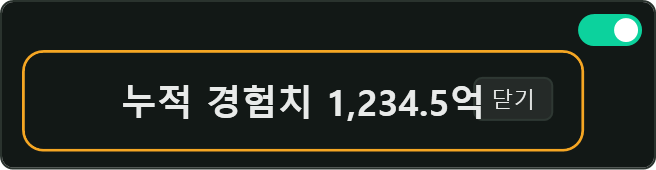
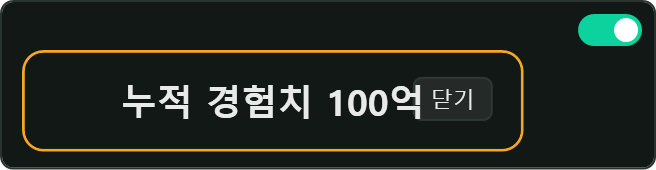
docs: 도움말 예시를 실제 게임 캐릭터·상황 문구로 전면 교체 후 재생성

diff --git a/Services/Diagnostics/HelpShotRenderer.cs b/Services/Diagnostics/HelpShotRenderer.cs
@@ -56,65 +56,66 @@ namespace TWChatOverlay.Services
 
             // ── 에타 레벨 ──
             Save(outDir, "chat_id_eta_level_off.png", PanelToggle(false,
-                Line(NormalCol, ("모비딕", NormalCol), (" : 사냥 가실 분?", NormalCol))));
+                Line(NormalCol, ("아나이스", NormalCol), (" : 어비스 가실 분?", NormalCol))));
             Save(outDir, "chat_id_eta_level_on.png", PanelToggle(true,
-                Line(NormalCol, ("모비딕", NormalCol), ("[72]", GoldCol), (" : 사냥 가실 분?", NormalCol))));
+                Line(NormalCol, ("아나이스", NormalCol), ("[72]", GoldCol), (" : 어비스 가실 분?", NormalCol))));
 
             // ── 에타 레벨별 색상 ──
             Save(outDir, "chat_id_eta_range_off.png", PanelToggle(false,
-                Line(NormalCol, ("나비", NormalCol), ("[15]", GoldCol), (" : 반가워요", NormalCol)),
-                Line(NormalCol, ("딩고", NormalCol), ("[55]", GoldCol), (" : 사냥 가실 분?", NormalCol)),
-                Line(NormalCol, ("모비딕", NormalCol), ("[92]", GoldCol), (" : 보스 곧 엽니다", NormalCol))));
+                Line(NormalCol, ("보리스", NormalCol), ("[15]", GoldCol), (" : 반가워요", NormalCol)),
+                Line(NormalCol, ("벤야", NormalCol), ("[55]", GoldCol), (" : 어비스 가실 분?", NormalCol)),
+                Line(NormalCol, ("아나이스", NormalCol), ("[92]", GoldCol), (" : 클럽보스 5초후 잡아요", NormalCol))));
             Save(outDir, "chat_id_eta_range_on.png", PanelToggle(true,
-                Line(NormalCol, ("나비", NormalCol), ("[15]", Range1Col), (" : 반가워요", NormalCol)),
-                Line(NormalCol, ("호밀", NormalCol), ("[33]", Range2Col), (" : 물약 팝니다", NormalCol)),
-                Line(NormalCol, ("딩고", NormalCol), ("[55]", Range3Col), (" : 사냥 가실 분?", NormalCol)),
-                Line(NormalCol, ("루카", NormalCol), ("[71]", Range4Col), (" : 집결지로 와주세요", NormalCol)),
-                Line(NormalCol, ("모비딕", NormalCol), ("[92]", Range5Col), (" : 보스 곧 엽니다", NormalCol))));
+                Line(NormalCol, ("보리스", NormalCol), ("[15]", Range1Col), (" : ㅎㅇ", NormalCol)),
+                Line(NormalCol, ("루시안", NormalCol), ("[33]", Range2Col), (" : 에오니스 라피스 팝니다", NormalCol)),
+                Line(NormalCol, ("벤야", NormalCol), ("[55]", Range3Col), (" : 어비스 가실 분?", NormalCol)),
+                Line(NormalCol, ("로아미니", NormalCol), ("[71]", Range4Col), (" : 상실의 섬으로 와주세요", NormalCol)),
+                Line(NormalCol, ("아나이스", NormalCol), ("[92]", Range5Col), (" : 클럽 보스 5초후 잡아요", NormalCol))));
 
             // ── 캐릭터 ──
             Save(outDir, "chat_id_character_off.png", PanelToggle(false,
-                Line(NormalCol, ("모비딕", NormalCol), ("[72]", GoldCol), (" : 사냥 가실 분?", NormalCol))));
+                Line(NormalCol, ("비호", NormalCol), ("[72]", GoldCol), (" : 어비스 가실 분?", NormalCol))));
             Save(outDir, "chat_id_character_on.png", PanelToggle(true,
-                Line(NormalCol, ("모비딕", NormalCol), ("[72]", GoldCol), ("[루시안]", SkyCol), (" : 사냥 가실 분?", NormalCol))));
+                Line(NormalCol, ("비호", NormalCol), ("[72]", GoldCol), ("[아나이스]", SkyCol), (" : 어비스 가실 분?", NormalCol))));
 
             // ── 아이디 태그 ──
             Save(outDir, "chat_id_tag_off.png", PanelToggle(false,
-                Line(NormalCol, ("모비딕", NormalCol), (" : 물약 팝니다", NormalCol))));
+                Line(NormalCol, ("아나이스", NormalCol), (" : 에오니스 라피스 팝니다", NormalCol))));
             Save(outDir, "chat_id_tag_on.png", PanelToggle(true,
-                Line(NormalCol, ("모비딕", NormalCol), ("[상인]", SkyCol), (" : 물약 팝니다", NormalCol)),
-                DimLine("(idtag.txt: 모비딕=상인)")));
+                Line(NormalCol, ("아나이스", NormalCol), ("[혐사]", SkyCol), (" : 에오니스 라피스 팝니다", NormalCol)),
+                DimLine("(idtag.txt: 아나이스 = 혐사)")));
 
             // ── 클럽 보스 ──
             Save(outDir, "chat_id_club_boss_on.png", PanelToggle(true,
-                Line(ClubCol, ("[클럽] 딩고 : 보스 갑니다", ClubCol)),
-                Line(SystemCol, ("클럽 공지 : '[클럽 보스] 그람존' 에 '딩고' 님이 참가하셨습니다.", SystemCol))));
+                Line(ClubCol, ("[클럽] 벤야 : 클럽 보스 갑니다", ClubCol)),
+                Line(SystemCol, ("클럽 공지 : '[클럽 보스] 그람존' 에 '벤야' 님이 참가하셨습니다.", SystemCol))));
             Save(outDir, "chat_id_club_boss_off.png", PanelToggle(false,
-                Line(ClubCol, ("[클럽] 딩고 : 보스 갑니다", ClubCol)),
+                Line(ClubCol, ("[클럽] 벤야 : 클럽 보스 갑니다", ClubCol)),
                 DimLine("(클럽 보스 공지는 표시되지 않음)")));
 
             // ── 타임 스탬프 ──
             Save(outDir, "chat_id_timestamp_off.png", PanelToggle(false,
-                Line(NormalCol, ("모비딕 : 안녕하세요", NormalCol))));
+                Line(NormalCol, ("아나이스 : 안녕하세요", NormalCol))));
             Save(outDir, "chat_id_timestamp_on.png", PanelToggle(true,
-                Line(NormalCol, ("[7시 15분 18초] ", SubText), ("모비딕 : 안녕하세요", NormalCol))));
+                Line(NormalCol, ("[7시 15분 18초] ", SubText), ("아나이스 : 안녕하세요", NormalCol))));
 
             // ── 폰트 크기 ──
             Save(outDir, "chat_font_13.png", Panel("크기 13",
-                LineSized(13, ("모비딕 : 폰트 크기를 바꿀 수 있습니다", NormalCol))));
+                LineSized(13, ("아나이스 : 폰트 크기를 바꿀 수 있습니다", NormalCol))));
             Save(outDir, "chat_font_17.png", Panel("크기 17",
-                LineSized(17, ("모비딕 : 폰트 크기를 바꿀 수 있습니다", NormalCol))));
+                LineSized(17, ("아나이스 : 폰트 크기를 바꿀 수 있습니다", NormalCol))));
 
             // ── 종류 말머리 ──
+
             Save(outDir, "chat_category_prefix_off.png", PanelToggle(false,
-                Line(NormalCol, ("모비딕 : 사냥 가실 분?", NormalCol)),
-                Line(TeamCol, ("나비 : 집결지로 와주세요", TeamCol)),
-                Line(ClubCol, ("딩고 : 보스 곧 엽니다", ClubCol)),
-                Line(ShoutCol, ("외치기 : 훈장 50개 삽니다 [티치엘]", ShoutCol))));
+                Line(NormalCol, ("아나이스 : 어비스 가실 분?", NormalCol)),
+                Line(TeamCol, ("로아미니 : 상실의 섬으로 와주세요", TeamCol)),
+                Line(ClubCol, ("벤야 : 클럽 보스 5초후 잡아요", ClubCol)),
+                Line(ShoutCol, ("티치엘 : 훈장 50개 삽니다 [티치엘]", ShoutCol))));
             Save(outDir, "chat_category_prefix_on.png", PanelToggle(true,
-                Line(NormalCol, ("[일반] ", NormalCol), ("모비딕 : 사냥 가실 분?", NormalCol)),
-                Line(TeamCol, ("[팀] ", TeamCol), ("나비 : 집결지로 와주세요", TeamCol)),
-                Line(ClubCol, ("[클럽] ", ClubCol), ("딩고 : 보스 곧 엽니다", ClubCol)),
+                Line(NormalCol, ("[일반] ", NormalCol), ("아나이스 : 어비스 가실 분?", NormalCol)),
+                Line(TeamCol, ("[팀] ", TeamCol), ("로아미니 : 상실의 섬으로 와주세요", TeamCol)),
+                Line(ClubCol, ("[클럽] ", ClubCol), ("벤야 : 클럽 보스 5초후 잡아요", ClubCol)),
                 Line(ShoutCol, ("[외치기] ", ShoutCol), ("티치엘", ShoutCol), (" : 훈장 50개 삽니다", ShoutCol))));
 
             // ── 서브 채팅창: 탭 전환 ──
@@ -131,17 +132,17 @@ namespace TWChatOverlay.Services
 
             // ── 외치기: 닉네임 자동복사 (실제 창) ──
             Save(outDir, "shout_autocopy_off.png", PanelToggle(false,
-                RealShoutToast("잡템 일괄 삽니다 [상점왕]"),
+                RealShoutToast("세크리드 주화 주머니 일괄 삽니다 [김주화]"),
                 DimLine("(클립보드 변화 없음)")));
             Save(outDir, "shout_autocopy_on.png", PanelToggle(true,
-                RealShoutToast("잡템 일괄 삽니다 [상점왕]"),
-                Chip("클립보드에 '상점왕' 복사됨")));
+                RealShoutToast("세크리드 주화 주머니 일괄 삽니다 [김주화]"),
+                Chip("클립보드에 '김주화' 복사됨")));
 
             // ── 외치기: 토스트 글자 크기 (실제 창) ──
             Save(outDir, "shout_toast_font_13.png", Panel("크기 13",
-                RealShoutToast("각인 도와드려요 [세공사]", 13)));
+                RealShoutToast("부가옵션 전이 도와드려요 [사기꾼]", 13)));
             Save(outDir, "shout_toast_font_20.png", Panel("크기 20",
-                RealShoutToast("각인 도와드려요 [세공사]", 20)));
+                RealShoutToast("부가옵션 전이 도와드려요 [사기꾼]", 20)));
 
             // ── 화면: 투명도 ──
             Save(outDir, "display_opacity_100.png", OpacityMock(0xF2, "투명도 100%"));
@@ -161,12 +162,12 @@ namespace TWChatOverlay.Services
 
             // ── 키워드: 색상 강조 ──
             Save(outDir, "keyword_color_off.png", PanelToggle(false,
-                Line(ShoutCol, ("외치기 : 룬 재료 팝니다 [상점왕]", ShoutCol)),
-                Line(ShoutCol, ("외치기 : 클럽원 모집 [달빛클럽]", ShoutCol))));
+                Line(ShoutCol, ("외치기 : 세크리드 주화 주머니 팝니다 [김주화]", ShoutCol)),
+                Line(ShoutCol, ("외치기 : 클럽원 모집 [김클럽]", ShoutCol))));
             Save(outDir, "keyword_color_on.png", PanelToggle(true,
-                Line(ShoutCol, ("외치기 : ", ShoutCol), ("룬 재료", Color.FromRgb(0xFF, 0x5A, 0x5A)), (" 팝니다 [상점왕]", ShoutCol)),
-                Line(ShoutCol, ("외치기 : 클럽원 모집 [달빛클럽]", ShoutCol)),
-                DimLine("(키워드: @룬 재료)")));
+                Line(ShoutCol, ("외치기 : ", ShoutCol), ("세크리드 주화 주머니", Color.FromRgb(0xFF, 0x5A, 0x5A)), (" 팝니다 [김주화]", ShoutCol)),
+                Line(ShoutCol, ("외치기 : 클럽원 모집 [김클럽]", ShoutCol)),
+                DimLine("(키워드: @세크리드 주화 주머니)")));
 
             // ── 경험치 추적 (실제 뷰) ──
             Save(outDir, "exp_tracker_off.png", PanelToggle(false,
@@ -177,7 +178,7 @@ namespace TWChatOverlay.Services
             Save(outDir, "exp_cum_off.png", PanelToggle(false,
                 DimLine("(누적 표시 없음)")));
             Save(outDir, "exp_cum_on.png", PanelToggle(true,
-                RealExpAlert("누적 경험치 1,234.5억")));
+                RealExpAlert("누적 경험치 100억")));
 
             // ── 저효율 알림 (실제 창) ──
             Save(outDir, "exp_loweff_off.png", PanelToggle(false,
@@ -200,9 +201,9 @@ namespace TWChatOverlay.Services
 
             // ── 필드 보스 알림 ──
             Save(outDir, "boss_alert_3min.png", Panel("3분 전",
-                ToastMock("필드 보스", "아르칸 등장 3분 전", SystemCol)));
+                ToastMock("필드 보스", "아칸 등장 3분 전", SystemCol)));
             Save(outDir, "boss_alert_spawn.png", Panel("5초 전",
-                ToastMock("필드 보스", "아르칸이 곧 등장합니다!", Color.FromRgb(0xFF, 0x5A, 0x5A))));
+                ToastMock("필드 보스", "아칸이 곧 등장합니다!", Color.FromRgb(0xFF, 0x5A, 0x5A))));
 
             // ── 던전 도우미 알림들 (실제 창) ──
             Save(outDir, "dungeon_wave_off.png", PanelToggle(false, DimLine("(웨이브가 끝나도 알림 없음)")));
@@ -210,7 +211,7 @@ namespace TWChatOverlay.Services
                 RealDungeonAlert("웨이브 종료")));
             Save(outDir, "dungeon_reflect_off.png", PanelToggle(false, DimLine("(반사 패턴 알림 없음)")));
             Save(outDir, "dungeon_reflect_on.png", PanelToggle(true,
-                RealDungeonAlert("반사 패턴!")));
+                RealDungeonAlert("2사도 반사 패턴!")));
             Save(outDir, "dungeon_abandon_count_off.png", PanelToggle(false, DimLine("(입장해도 알림 없음)")));
             Save(outDir, "dungeon_abandon_count_on.png", PanelToggle(true,
                 RealDungeonAlert("어밴던로드 입장 3회")));
